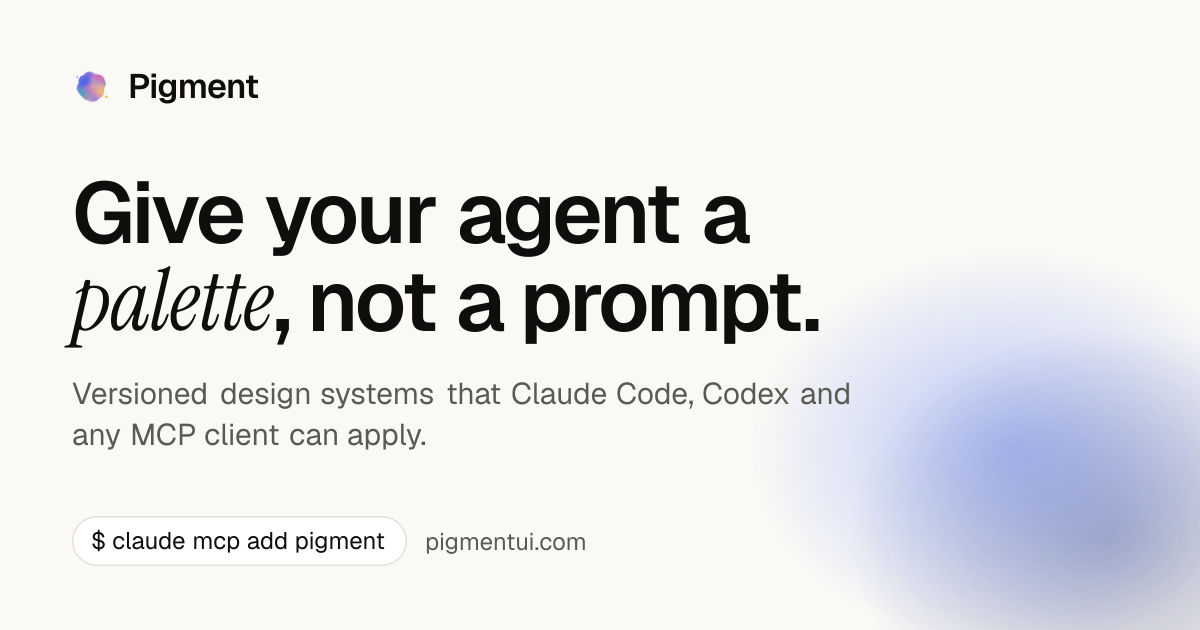
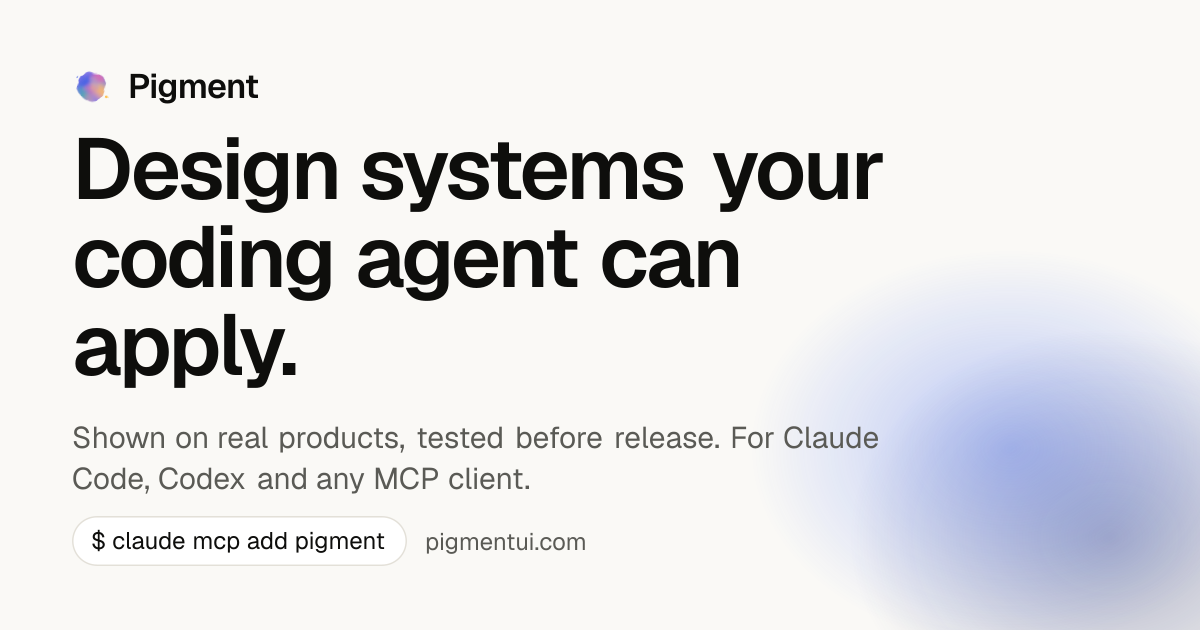
Site copy: say plainly what Pigment does, without the paint puns (#38)
## What

The site copy now says plainly what Pigment does. The paint puns are
gone.

| Where | Before | After |
| --- | --- | --- |
| Home headline | Give your agent a palette, not a prompt. | Design
systems your coding agent can apply. |
| Home subline | Design systems that Claude Code, Codex and any MCP
client can apply. | Each one is shown on real products and tested before
release. Claude Code, Codex and any MCP client can apply it. |
| Home note | real agent output, not mockups | unedited agent output |
| How it works | Mix once. Paint forever. | Set up once. Every new
screen follows. |
| Footer | No happy accidents. / … so they never drift. | Design systems
your coding agent can apply. Each is copied into your project, so every
later screen follows the same rules. |
| Compare | Compare, side by side. / only the paint differs | Compare
systems side by side. / same product, same prompt, different system |
| Connect | Connect an agent once. | Connect your agent. |
| 404 | This page washed out. | Page not found. |
| Apply panel note | yours to keep | copied into your project |
| Gallery empty states | …still being mixed / …that mix yet | No systems
are published yet / No system matches these filters |

The home link-preview image and the README banner use the new headline.
The unused `Swash` component, its styles and the footer tagline style
are removed.

Closes #

## Why

The puns didn't say what the product does.

## Kind

- [x] Site, API or MCP server
[…]

Changed region(s): [[0.0617, 0.2111, 0.74, 0.7841]]

diff --git a/apps/web/src/app/page.tsx b/apps/web/src/app/page.tsx
@@ -2,7 +2,7 @@ import Link from "next/link";
 import { listTemplates, type TemplateSummary } from "@pigment/content";
 import { MCP_URL, SITE_URL } from "@pigment/content/prompts";
 import { SiteFooter, SiteHeader } from "@/components/chrome";
-import { Bloom, Note, Swash } from "@/components/details";
+import { Bloom, Note } from "@/components/details";
 import { Gallery } from "@/components/gallery";
 
 export const dynamic = "force-static";
@@ -32,10 +32,11 @@ export default function HomePage() {
         <div className="gallery-intro">
           <div style={{ maxWidth: 760 }}>
             <h1 className="gallery-intro__title">
-              Give your agent a <Swash>palette</Swash>, not&nbsp;a&nbsp;prompt.
+              Design systems your coding agent can&nbsp;apply.
             </h1>
             <p className="gallery-intro__sub">
-              Design systems that Claude Code, Codex and any MCP client can apply.{templates.length > 0 && " Pick one below."}
+              Each one is shown on real products and tested before release. Claude Code, Codex and any MCP client can apply it.
+              {templates.length > 0 && " Pick one below."}
             </p>
           </div>
           <Link href="/connect" className="btn btn--cmd">
@@ -43,7 +44,7 @@ export default function HomePage() {
           </Link>
           {templates.length > 0 && (
             <Note arrow="down-left" arrowFirst style={{ left: 790, bottom: -6 }}>
-              <span style={{ paddingBottom: 30, display: "block" }}>real agent output, not mockups</span>
+              <span style={{ paddingBottom: 30, display: "block" }}>unedited agent output</span>
             </Note>
           )}
         </div>
@@ -57,7 +58,7 @@ export default function HomePage() {
       <section id="how" className="page how">
         <div className="how__text">
           <h2 className="how__title">
-            Mix once. Paint <span className="serif">forever</span>.
+            Set up once. Every new screen follows.
           </h2>
           <ol className="how__steps">
             <li>
@@ -86,7 +87,7 @@ export default function HomePage() {
               <span className="c"># 1 · connect once</span>
               {"\n"}claude mcp add --transport http pigment <span className="s">{MCP_URL}</span>
               {"\n\n"}
-              <span className="c"># 2 · just ask</span>
+              <span className="c"># 2 · ask your agent</span>
               {"\n"}› Apply the Pigment design system <span className="s">&lt;system&gt;</span> to this project.
               {"\n"}  Preserve routes, logic and tests. Show a plan first.
               {"\n\n"}
@@ -94,9 +95,6 @@ export default function HomePage() {
               {"\n"}get_design_system(<span className="s">&quot;&lt;system&gt;&quot;</span>)
             </pre>
           </div>
-          <Note arrow="up-right" style={{ position: "relative", justifyContent: "flex-end", marginTop: 8, marginRight: 28 }}>
-            <span style={{ paddingTop: 18, display: "block" }}>that&apos;s the whole setup</span>
-          </Note>
         </div>
       </section>
       <SiteFooter />

diff --git a/apps/web/src/app/opengraph-image.tsx b/apps/web/src/app/opengraph-image.tsx
@@ -1,7 +1,7 @@
 import { ImageResponse } from "next/og";
 import { Bloom, INK, INK_3, LINE, Mark, OG_SIZE, PAPER, ogFonts } from "@/lib/og";
 
-export const alt = "Pigment — give your agent a palette, not a prompt.";
+export const alt = "Pigment — design systems your coding agent can apply.";
 export const size = OG_SIZE;
 export const contentType = "image/png";
 
@@ -16,15 +16,10 @@ export default function OpenGraphImage() {
         </div>
         <div style={{ display: "flex", flexDirection: "column", maxWidth: 900 }}>
           <div style={{ display: "flex", flexWrap: "wrap", fontSize: 86, lineHeight: 1.02, letterSpacing: "-0.035em", fontWeight: 600 }}>
-            <span>Give your agent a&nbsp;</span>
-            <span style={{ display: "flex" }}>
-              <span style={{ fontFamily: "Instrument Serif", fontStyle: "italic", fontWeight: 400, letterSpacing: "-0.01em" }}>palette</span>
-              <span>,&nbsp;</span>
-            </span>
-            <span>not a prompt.</span>
+            <span>Design systems your coding agent can apply.</span>
           </div>
           <div style={{ marginTop: 28, fontSize: 30, lineHeight: 1.35, color: INK_3, maxWidth: 820 }}>
-            Design systems that Claude Code, Codex and any MCP client can apply.
+            Shown on real products, tested before release. For Claude Code, Codex and any MCP client.
           </div>
         </div>
         <div style={{ display: "flex", alignItems: "center", gap: 18, fontSize: 24, color: INK_3 }}>

diff --git a/apps/web/tests/site.spec.ts b/apps/web/tests/site.spec.ts
@@ -8,11 +8,11 @@ const UPDATED = "2026-10-11";
 test.describe("gallery", () => {
   test("lists the published system and filters by tone", async ({ page }) => {
     await page.goto("/");
-    await expect(page.getByRole("heading", { level: 1 })).toContainText("not a prompt");
+    await expect(page.getByRole("heading", { level: 1 })).toContainText("Design systems your coding agent can apply");
     await expect(page.getByRole("heading", { name: "Fixture System" })).toBeVisible();
     await expect(page.getByText("1 system", { exact: true })).toBeVisible();
     await page.getByRole("group", { name: "Tone" }).getByRole("button", { name: "Brutalist" }).click();
-    await expect(page.getByText("No system matches that mix yet")).toBeVisible();
+    await expect(page.getByText("No system matches these filters")).toBeVisible();
     await page.getByRole("group", { name: "Tone" }).getByRole("button", { name: "All" }).click();
     await expect(page.getByRole("heading", { name: "Fixture System" })).toBeVisible();
   });
@@ -70,7 +70,7 @@ test.describe("system detail", () => {
   test("unknown system is a 404", async ({ page }) => {
     const res = await page.goto("/s/does-not-exist");
     expect(res?.status()).toBe(404);
-    await expect(page.getByText("This page washed")).toBeVisible();
+    await expect(page.getByText("Page not found")).toBeVisible();
   });
 
   test("@mobile shows the sticky apply bar", async ({ page }) => {

diff --git a/apps/web/src/components/gallery.tsx b/apps/web/src/components/gallery.tsx
@@ -60,7 +60,7 @@ export function Gallery({ templates }: { templates: TemplateSummary[] }) {
         </div>
       </div>
       {shown.length === 0 ? (
-        <p className="gallery-empty-filter">No system matches that mix yet. Try clearing a filter.</p>
+        <p className="gallery-empty-filter">No system matches these filters. Try clearing one.</p>
       ) : (
         <div className="gallery-grid">
           {shown.map((t, i) => (
@@ -139,7 +139,7 @@ function EmptyGallery() {
   return (
     <div className="gallery-empty">
       <Tape style={{ top: -10, left: "calc(50% - 44px)" }} rotate={-3} />
-      <p className="gallery-empty__title">The first systems are still being mixed.</p>
+      <p className="gallery-empty__title">No systems are published yet.</p>
       <p className="muted">Every system here is tested by an agent and shown on real products before it is published. Meanwhile, connect your agent so it is ready.</p>
       <div style={{ display: "flex", gap: 10, justifyContent: "center", flexWrap: "wrap" }}>
         <Link href="/connect" className="btn btn--primary">

diff --git a/apps/web/src/components/details.tsx b/apps/web/src/components/details.tsx
@@ -93,20 +93,6 @@ export function Note({ children, arrow, arrowFirst, style }: { children: ReactNo
   );
 }
 
-/** The one brush swash on the site, under the italic word of the gallery headline. */
-export function Swash({ children }: { children: ReactNode }) {
-  return (
-    <span className="swash serif">
-      <svg aria-hidden="true" viewBox="0 0 200 40" preserveAspectRatio="none">
-        <g filter="url(#wcs)">
-          <path d="M6 24 C 50 14, 120 30, 194 16" fill="none" stroke="var(--bloom-blue)" strokeWidth={16} strokeLinecap="round" opacity={0.32} />
-        </g>
-      </svg>
-      {children}
-    </span>
-  );
-}
-
 export function Blot({ color, mix, size = 22 }: { color: string; mix: string; size?: number }) {
   return (
     <svg aria-hidden="true" viewBox="0 0 48 48" width={size} height={size} style={{ overflow: "visible", flex: "none" }}>

diff --git a/apps/web/src/app/globals.css b/apps/web/src/app/globals.css
@@ -321,7 +321,7 @@ code {
   box-shadow: var(--shadow-seg);
 }
 
-/* ---------- Concept details: bloom, tape, pencil note, swash ---------- */
+/* ---------- Concept details: bloom, tape, pencil note ---------- */
 
 .bloom {
   position: absolute;
@@ -358,21 +358,6 @@ code {
 .note svg {
   overflow: visible;
   flex: none;
-}
-
-.swash {
-  position: relative;
-  isolation: isolate;
-}
-
-.swash svg {
-  position: absolute;
-  left: -8px;
-  bottom: -2px;
-  width: calc(100% + 18px);
-  height: 0.42em;
-  z-index: -1;
-  overflow: visible;
 }
 
 /* ---------- Screenshot slot ---------- */
@@ -545,14 +530,8 @@ code {
   max-width: 340px;
 }
 
-.site-footer__tagline {
-  margin: 6px 0 0;
-  font-size: 26px;
-  line-height: 1.1;
-}
-
 .site-footer__about {
-  margin: 0;
+  margin: 12px 0 0;
   font-size: 13px;
   line-height: 1.55;
   color: var(--ink-3);

diff --git a/apps/web/src/components/apply-panel.tsx b/apps/web/src/components/apply-panel.tsx
@@ -85,7 +85,7 @@ export function ApplyPanel({ id, name }: { id: string; name: string }) {
             <p className="apply__ask">“{request}”</p>
             <span className="meta">No prompt to paste — the agent reads the spec through the Pigment tools and copies it into your project.</span>
             <Note arrow="up-left" arrowFirst style={{ right: 4, bottom: -40, color: "var(--ink-2)" }}>
-              <span style={{ paddingTop: 10, display: "block", fontSize: 20 }}>yours to keep</span>
+              <span style={{ paddingTop: 10, display: "block", fontSize: 20 }}>copied into your project</span>
             </Note>
           </div>
         </>

diff --git a/apps/web/src/components/chrome.tsx b/apps/web/src/components/chrome.tsx
@@ -113,9 +113,9 @@ export function SiteFooter() {
             <Logo />
             Pigment
           </Link>
-          <p className="site-footer__tagline serif">No happy accidents.</p>
           <p className="site-footer__about">
-            Design systems your coding agent can apply — tested on real apps, copied into your project so they never drift.
+            Design systems your coding agent can apply. Each is copied into your project, so every later screen follows the same
+            rules.
           </p>
           <a className="site-footer__gh" href={REPO} target="_blank" rel="noreferrer">
             <GitHubIcon />

diff --git a/apps/web/src/app/connect/page.tsx b/apps/web/src/app/connect/page.tsx
@@ -26,7 +26,7 @@ export default function ConnectPage() {
         <div style={{ maxWidth: 780 }}>
           <p className="eyebrow">MCP server</p>
           <h1 style={{ margin: 0, fontSize: "clamp(38px, 5vw, 56px)", lineHeight: 1, fontWeight: 600, letterSpacing: "-0.045em" }}>
-            Connect an agent <span className="serif">once</span>.
+            Connect your agent.
           </h1>
           <p style={{ margin: "18px 0 0", fontSize: 17, color: "var(--ink-2)" }}>
             One server for every MCP client. It only reads specs — it never writes to your project. Your agent does the editing, with your permissions.

diff --git a/apps/web/src/app/compare/page.tsx b/apps/web/src/app/compare/page.tsx
@@ -50,7 +50,7 @@ export default function ComparePage() {
         <Bloom size={700} style={{ right: -200, top: -60 }} />
         <div style={{ position: "relative", zIndex: 1, paddingBottom: 32 }}>
           <h1 style={{ margin: 0, fontSize: "clamp(36px, 5vw, 48px)", lineHeight: 1, fontWeight: 600, letterSpacing: "-0.04em" }}>
-            Compare, <span className="serif">side by side</span>.
+            Compare systems side by side.
           </h1>
           <p className="muted" style={{ margin: "14px 0 0", fontSize: 16 }}>
             Same product, same prompt. Only the system changes.

diff --git a/apps/web/src/components/compare-view.tsx b/apps/web/src/components/compare-view.tsx
@@ -128,7 +128,7 @@ export function CompareView({ items }: { items: CompareItem[] }) {
 
       <div style={{ position: "relative" }}>
         <Note arrow="up-left" arrowFirst style={{ position: "relative", margin: "18px 0 0 8px" }}>
-          <span style={{ paddingTop: 10, display: "block", fontSize: 21 }}>identical product, identical prompt — only the paint differs</span>
+          <span style={{ paddingTop: 10, display: "block", fontSize: 21 }}>same product, same prompt, different system</span>
         </Note>
       </div>
 

diff --git a/apps/web/src/app/not-found.tsx b/apps/web/src/app/not-found.tsx
@@ -8,7 +8,7 @@ export default function NotFound() {
       <main className="page" style={{ padding: "120px var(--gutter) 40px", textAlign: "center" }}>
         <p className="eyebrow">404</p>
         <h1 style={{ margin: 0, fontSize: 40, fontWeight: 600, letterSpacing: "-0.035em" }}>
-          This page washed <span className="serif">out</span>.
+          Page not found.
         </h1>
         <p className="muted" style={{ marginTop: 14 }}>
           The system or page you were looking for does not exist.
